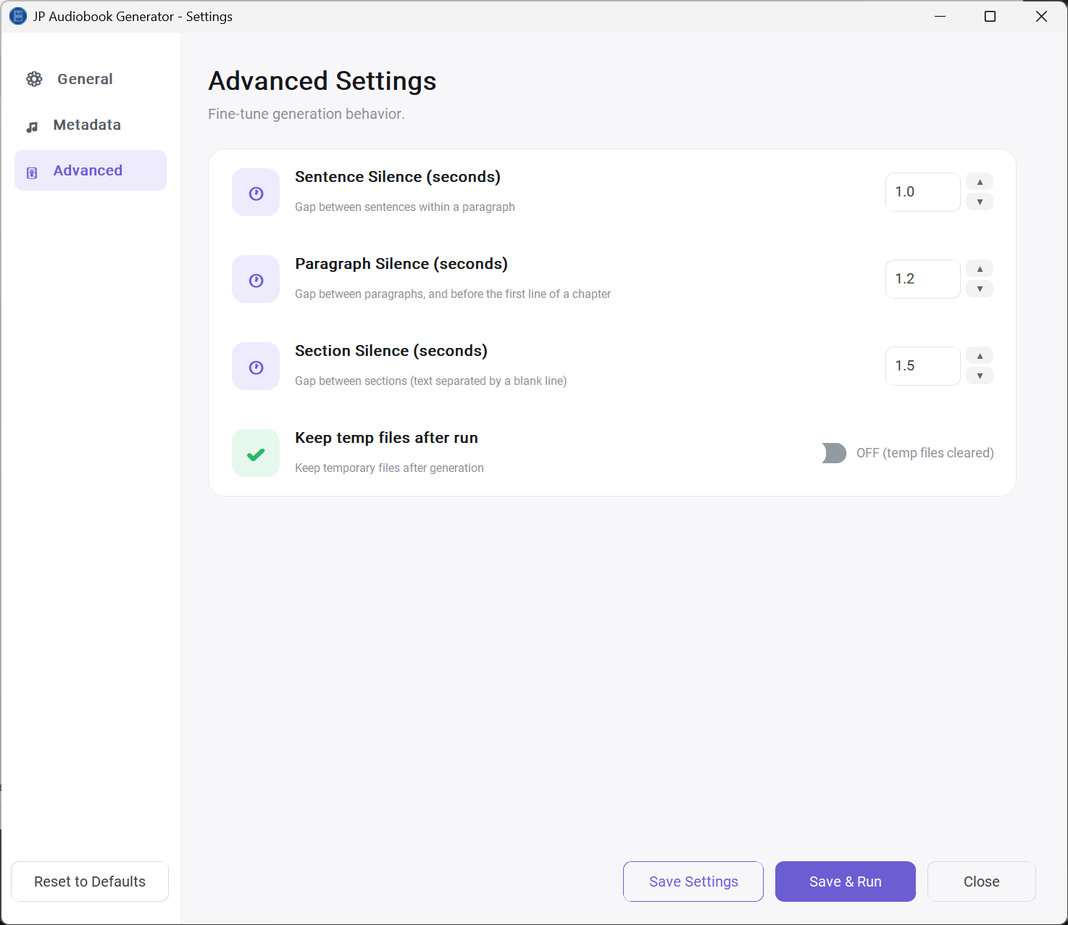
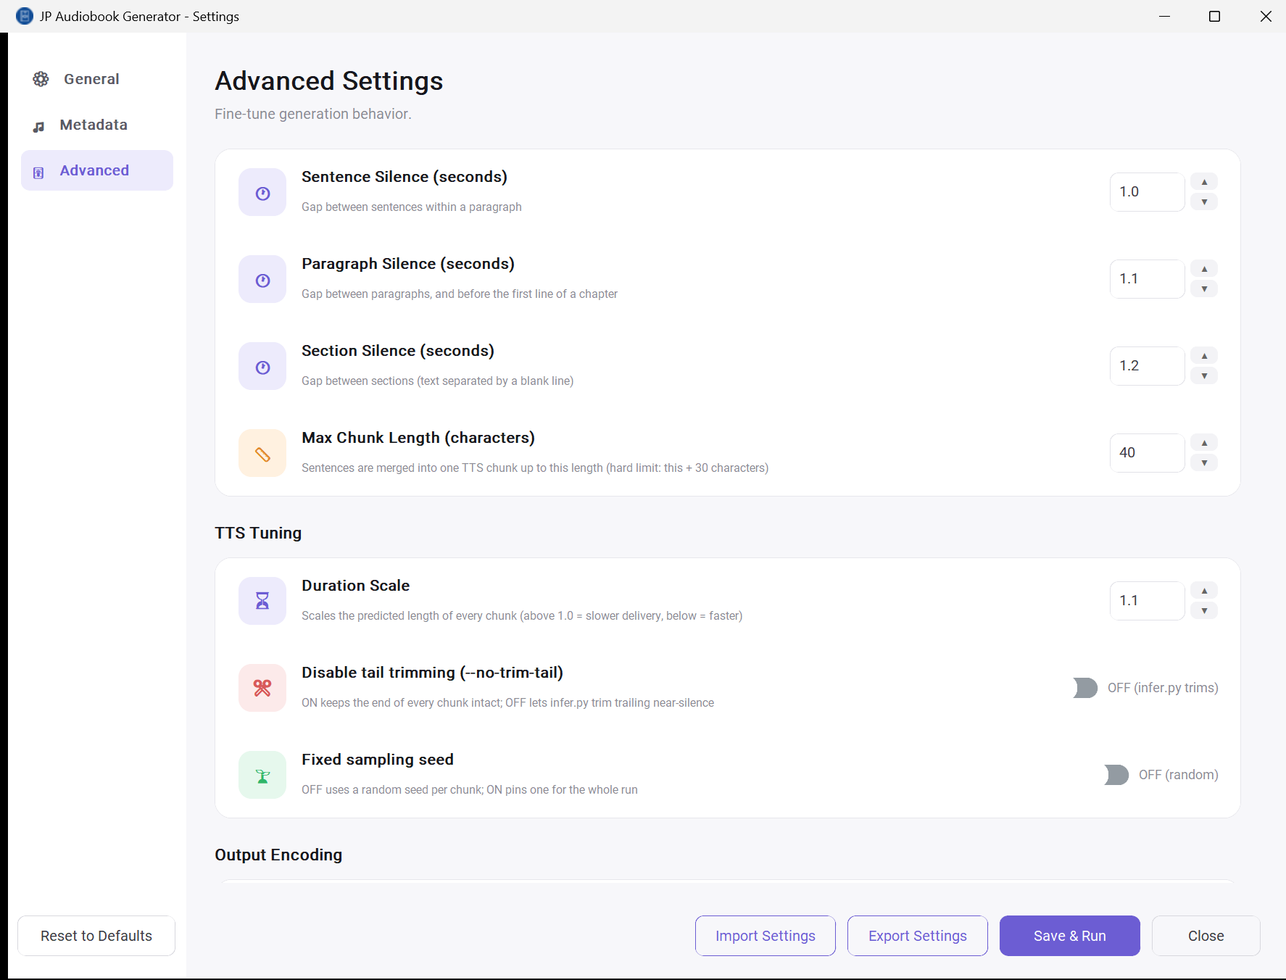
Document every feature added since the last README pass; refresh screenshots
The README described the pipeline as it stood several features ago: a local
model.safetensors, a Save Settings button, no timing data, no subtitles.

Updated: the feature list, prerequisites (weights now come from Hugging Face,
with llama.cpp and a VNTL GGUF listed as optional extras for subtitles),
General settings (Model Path gone, the two run-behaviour toggles documented
where they now live), Advanced settings (Max Chunk Length plus new tables for
TTS Tuning, Output Encoding and Translation Subtitles), and the action bar
(Export/Import presets in place of Save Settings, and Save & Run counting only
the chapters it intends to build).

Added section 8, what lands in the output folder - sync.json, the translation
artifact, the .srt, the glossary and the per-run settings snapshot - and
section 9 on translation subtitles: why it runs after the audio, the glossary
format, the Subtitle Generation Tool, how the chapter and subtitle regenerate
decisions stay coupled, and model setup.

Section 6 now notes that its 100/130 worked examples are the defaults rather
than fixed limits, since Max Chunk Length made them configurable.

Screenshots recaptured through the Win32 PrintWindow API, so they are clean
window shots rather than desktop grabs. The Advanced page needs two: Windows
does not composite the off-screen part of a window, so a window tall enough to
fit the whole page comes back black below the screen edge. New shot of the
Subtitle Generation Tool.
[…]

diff --git a/gui_settings.py b/gui_settings.py
@@ -638,10 +638,12 @@ class SettingsApp(ctk.CTk):
         self._add_auto_translate_row(tr_card)
         self._add_backend_row(tr_card)
         self._add_endpoint_row(tr_card)
+        # Kept short on purpose: _add_path_row's title block is a fixed
+        # 210x44, so a description longer than about one line is clipped
+        # rather than wrapped. The full behaviour is in the README.
         self._add_path_row(
             tr_card, *ICON_MODEL, "llama-server path",
-            "Started automatically when nothing is listening, and stopped again "
-            "when translation finishes",
+            "Started and stopped automatically",
             "llama_server_exe", "file",
             filetypes=[("Executable", "*.exe"), ("All files", "*.*")])
         self._add_path_row(

diff --git a/README.md b/README.md
@@ -23,9 +23,13 @@ The Automated Japanese Audiobook Generator is a Python automation pipeline desig
 ## 2. Core Functional Features
 
 - **Text Pre-processing:** The pipeline parses raw Japanese text into a structured hierarchy of sections, paragraphs, and sentences. Dialogue (`「」`) and parenthetical asides (`（）`) are no longer isolated as whole, unsplittable spans - instead each bracket edge is a guaranteed silence point, while the content between/around them is chunked by the same character-count rules as ordinary narration. A mid-sentence `──` is also a forced silence point. See [Section 6](#6-detailed-text-cleaning-logic) for the full logic.
-- **Sentence-Level Chunking:** To respect model token limits and prevent prosodic degradation, the script merges sentences into ~100-character chunks (130-character hard limit) using `。`, `？`, `……`, and the forced break points above (`「`, `（`, `」`, `）`, `──`) as boundaries. This keeps intonation natural across long-form content (including long dialogue) while minimizing the number of TTS calls.
+- **Sentence-Level Chunking:** To respect model token limits and prevent prosodic degradation, the script merges sentences into chunks at a configurable soft limit (100 characters by default, with a hard limit 30 above it) using `。`, `？`, `……`, and the forced break points above (`「`, `（`, `」`, `）`, `──`) as boundaries. This keeps intonation natural across long-form content (including long dialogue) while minimizing the number of TTS calls.
 - **AI Speech Synthesis:** The system integrates the Irodori-TTS engine, which utilizes a Flow Matching architecture for better voice quality. Local GPU inference is managed via the `uv` package manager to ensure environment stability.
 - **Automated Audio Stitching:** Using FFmpeg's concat demuxer, the script merges individual chunk waveforms into a final chapter file, inserting tiered silence gaps to simulate natural human pacing. Each gap is one of three separately configurable durations - sentence, paragraph/chapter start, or section - chosen by boundary type, with dialogue/aside edges and `──` pauses promoted to a longer gap where appropriate.
+- **Per-Speaker Tuning:** Duration scale, tail trimming and the sampling seed are settings rather than constants, because trained speakers respond differently enough to them that one fixed recipe produced inconsistent results across voices. Output channel count and MP3 bitrate are configurable alongside them. See [Section 7.3](#73-advanced-settings).
+- **Chunk Timing Data:** Every chapter is written with a `<chapter>.sync.json` recording each chunk's start/end offset in the finished MP3. It falls out of the same concat ordering used to stitch the audio, so no separate alignment pass is needed, and it is what makes read-along playback and subtitles possible. See [Section 8](#8-what-lands-in-the-output-folder).
+- **English Subtitle Generation:** An optional pass translates the finished `sync.json` chunk by chunk and emits a sidecar `.srt`. Because it runs *after* the audio exists, chunk boundaries are already fixed by the rendered MP3 and the subtitle cannot desync. Translation runs locally against a VNTL model with no API cost. See [Section 9](#9-translation-subtitles).
+- **Reproducible Runs:** Every run drops a timestamped copy of the settings it used into the output folder, so the recipe behind a book is still recoverable months later. Presets can be exported and imported per book or per speaker.
 
 ## 3. System Prerequisites
 
@@ -37,7 +41,22 @@ The Automated Japanese Audiobook Generator is a Python automation pipeline desig
 | GPU | NVIDIA GeForce RTX 4060 (8GB VRAM minimum) |
 | Tools | FFmpeg (full-shared build — required for `libtorchcodec` DLL support), `uv` (modern Python package manager) |
 | Engine | Irodori-TTS (cloned repository) |
-| Model Weights | `model.safetensors` (v4-Small recommended) and a trained `.speaker.safetensors` (Semantic-DACVAE codec) |
+| Model Weights | Downloaded automatically from Hugging Face — see below. You supply only a trained `.speaker.safetensors` (Semantic-DACVAE codec) |
+| Optional (subtitles) | `llama-server` from [llama.cpp](https://github.com/ggml-org/llama.cpp/releases) (CUDA build matching your driver) and a VNTL GGUF model — see [Section 9](#9-translation-subtitles) |
+
+**Model weights**
+
+The pipeline uses the published checkpoint `Aratako/Irodori-TTS-v4.1-Small`,
+passed to `infer.py` as `--hf-checkpoint`, so there is no local
+`model.safetensors` to manage and no Model Path field in the GUI. It is
+fetched into the Hugging Face cache on first use and reused from then on.
+
+To pin a different checkpoint — a local file, or a quantized variant such as
+`Aratako/Irodori-TTS-v4.1-Small-Quantized/int8-weight-only` — change
+`MODEL_REF` at the top of `run_audiobook.py`. `checkpoint_args()` decides
+between `--checkpoint` and `--hf-checkpoint` from the shape of the value, so
+either form works. The two are mutually exclusive in `infer.py`, which is why
+this is resolved in one place rather than left to the caller.
 
 **Speaker setup**
 
@@ -113,7 +132,9 @@ All spaces, CRLFs, and IDSP are stripped from the content of every working file 
 
 ### 6.3 Stage 2 — Merge sentences into TTS input chunks
 
-Goal: instead of one audio generation call per sentence, combine sentences so each TTS input lands close to **100 characters**, never exceeding a **130-character hard limit** where avoidable.
+Goal: instead of one audio generation call per sentence, combine sentences so each TTS input lands close to the soft limit, never exceeding the hard limit where avoidable.
+
+> The worked examples below use the defaults — a **100-character** soft limit and a **130-character** hard limit. Both follow **Max Chunk Length** on the [Advanced page](#73-advanced-settings): the hard limit is always the soft limit **+ 30**, and is not separately configurable. Lowering the soft limit gives finer control over where silence lands, at the cost of more TTS calls.
 
 Per paragraph, walk its sentence units in order and maintain a running buffer:
 
@@ -222,8 +243,9 @@ Paths and basic preferences for the audiobook generation process.
 | --- | --- |
 | **Input Folder** | Folder containing the input chapters — `chapter_001.txt`, `chapter_002.txt`, etc. This is the `chapter_*.txt` naming that [JP-ePub-Text-Extractor](https://github.com/hermanismail/JP-ePub-Text-Extractor) writes to its output folder, so that tool's output can be pointed at directly as this one's input. |
 | **Output Folder** | Where the generated MP3 files are saved, one per chapter. |
-| **Temp Folder** | Where intermediate working files (split sections/paragraphs/sentences, per-chunk `.wav` files, the run log) are written during a generation run, one subfolder per chapter, plus a shared `_silence` subfolder holding the three silence `.wav` files for the run. See **Keep temp files after run** (Advanced) for whether these are cleaned up afterward. |
-| **Model Path** | Path to the Irodori-TTS `model.safetensors` weights file (see [Section 3](#3-system-prerequisites)). |
+| **Regenerate existing chapters** | **OFF** by default: any chapter that already has an MP3 in the Output Folder is skipped, and the run says which ones and why. This replaces shuffling `.txt` files in and out of the Input Folder by hand to avoid clobbering finished work — easy to get wrong, and expensive when you do, since a chapter is hours of GPU time. Turn **ON** to rebuild and overwrite them, e.g. after finding a better recipe. It also governs subtitles on the automatic path — see [Section 9.4](#94-how-the-two-halves-stay-in-step). |
+| **Temp Folder** | Where intermediate working files (split sections/paragraphs/sentences, per-chunk `.wav` files, the run log) are written during a generation run, one subfolder per chapter, plus a shared `_silence` subfolder holding the three silence `.wav` files for the run. |
+| **Keep temp files after run** | **ON** by default, leaving the split text and per-chunk `.wav` working files in the Temp Folder after a run (useful for inspecting a chapter). Turn **OFF** to have them cleared once generation completes. |
 | **Speaker Path** | Path to your trained `.speaker.safetensors` file, produced by the speaker inversion step (see **Speaker setup** in [Section 3](#3-system-prerequisites)). |
 | **uv Project Folder** | The base folder of your Irodori-TTS `uv` project — i.e. the folder you'd normally run `uv run ...` from. Generation is launched as a subprocess inside this folder, so it needs to match wherever Irodori-TTS was cloned and synced. |
 
@@ -249,18 +271,52 @@ Tag chapters so Spotify (or any player that reads ID3/MP4 tags) groups them as o
 
 Fine-tune generation behavior.
 
-<img src="GUI-Advanced.png" alt="Settings GUI Advanced" width="600">
+<img src="GUI-Advanced.png" alt="Settings GUI Advanced - top" width="600">
+
+<img src="GUI-Advanced-2.png" alt="Settings GUI Advanced - scrolled" width="600">
+
+The page scrolls; the two shots above are the top and bottom of it.
 
 | Field / control | What it does |
 | --- | --- |
 | **Sentence Silence (seconds)** | Length of the gap inserted between sentences inside a paragraph — the shortest of the three. Defaults to 1.0 seconds; must be a positive number. |
 | **Paragraph Silence (seconds)** | Length of the gap inserted between paragraphs, and as the lead-in before the very first line of a chapter. Defaults to 1.2 seconds; must be a positive number. |
 | **Section Silence (seconds)** | Length of the gap inserted between sections (text separated by a blank line) — the longest of the three. Defaults to 1.5 seconds; must be a positive number. |
-| **Keep temp files after run** | **ON** by default, meaning the split section/paragraph/sentence files and per-chunk `.wav` files in the Temp Folder are left on disk after a run finishes (useful for inspecting/debugging a chapter). Turn **OFF** to have them deleted automatically once generation completes. |
+| **Max Chunk Length (characters)** | Soft cap on how much text is packed into one TTS chunk before starting a new one. The hard limit that the merger only crosses to avoid cutting a sentence off mid-way is always this **+ 30** characters, and is not separately configurable. Lower values give finer control over where silence lands, at the cost of more TTS calls. |
 
 The three durations are fully independent — there is no longer a single "base unit" that the longer gaps are multiples of. Each one is rendered to its own silence `.wav` before stitching, and [Section 6.5](#65-stage-4--concatenation--silence-insertion) explains which of the three lands at any given gap. Setting all three to the same number gives uniform pacing throughout; widening only **Section Silence** gives a clearer beat between scene breaks without slowing down ordinary narration.
 
 > **Upgrading from an earlier version:** older `settings.json` files stored one `silence_duration` value. On first load it is migrated automatically into `silence_duration_sentence` (the old value), `silence_duration_paragraph` (2× it) and `silence_duration_section` (3× it), which reproduces the previous output exactly. Nothing changes audibly until you actually edit the numbers here.
+
+**TTS Tuning**
+
+These are passed straight through to Irodori-TTS's `infer.py`. They are settings rather than constants because trained speakers respond to them differently enough that fixing them in code produced inconsistent results across voices — expect to tune them per speaker and export the result as a preset.
+
+| Field / control | What it does |
+| --- | --- |
+| **Duration Scale** | `--duration-scale`. Multiplies the length v4-Small predicts for each chunk: above 1.0 slows the delivery, below speeds it up. Defaults to 1.2. |
+| **Disable tail trimming** | `--no-trim-tail`. **ON** keeps the end of every chunk intact. Irodori's tail heuristic was written for v2's fixed 30-second outputs; on short chunks a false positive costs the final syllable. **OFF** hands trimming back to `infer.py`, at the cost of a little dead air per chunk. |
+| **Fixed sampling seed** | `--seed`. **OFF** by default, letting `infer.py` draw a fresh seed per chunk. **ON** pins one seed for the whole run and reveals a value box. Reproducible, but be careful: pinning one seed means every chunk starts from the same noise, so a draw that suits some text badly then hurts every chunk it touches — in testing this made chapters noticeably *less* stable, not more. |
+
+**Output Encoding**
+
+| Field / control | What it does |
+| --- | --- |
+| **Output channels** | Mono by default, because mono is what Irodori-TTS actually renders. Stereo duplicates the same signal into both channels, which buys no stereo image and halves the bits available to the content — measured at an identical 320k, mono scored ~2.8 dB better. |
+| **MP3 Bitrate** | Constant bitrate for the stitched chapter, `96k` by default (accepts `96` or `96k`, 32–320). At 96k mono a full-length novel is roughly 30% of the size the old 320k stereo setting produced, with no audible loss on speech. CBR is deliberate: `sync.json` offsets are seeked to by the player, and VBR seeking leans on a 100-entry table far coarser than one chunk. |
+
+**Translation Subtitles**
+
+Covered in full in [Section 9](#9-translation-subtitles).
+
+| Field / control | What it does |
+| --- | --- |
+| **Auto-generate after run** | **OFF** by default. **ON** runs subtitle generation once at the very end of a whole book — not per chapter, since a translation model and Irodori-TTS would contend for the same 8GB card. Turning this on greys out the manual **Generate Subtitle** button, since translation then happens by itself. |
+| **Translation backend** | `vntl` (local VNTL-Llama3 via llama-server) or `identity`, which passes the Japanese through untranslated. `identity` is the control case for checking the artifact format and player round-trip with no model in the loop. |
+| **llama-server URL** | Where the local model listens. Only used by the `vntl` backend. |
+| **llama-server path** | The `llama-server.exe` to start when nothing is already listening. It is stopped again when translation finishes, so the GPU is only occupied while the job runs. |
+| **Translation model (GGUF)** | The VNTL model `llama-server` loads. |
+| **Generate Subtitle** | Opens the Subtitle Generation Tool ([Section 9.3](#93-the-subtitle-generation-tool)). Greyed out while **Auto-generate after run** is ON. |
 
 ### 7.4 Bottom action bar
 
@@ -268,9 +324,10 @@ Present on every tab.
 
 | Button | What it does |
 | --- | --- |
-| **Reset to Defaults** | After a confirmation prompt, resets every field on all three tabs back to its built-in default value. Nothing is written to `settings.json` until you also click **Save Settings** or **Save & Run**. |
-| **Save Settings** | Validates the current values and writes them to `settings.json`, without starting a run. |
-| **Save & Run** | Validates and saves the same as above, then launches `run_audiobook.py` as a background process and opens the progress window (see below). Counts the `chapter_*.txt` files in the Input Folder up front so the progress window can show "Chapter 1 of N" immediately; refuses to start if none are found. |
+| **Reset to Defaults** | After a confirmation prompt, resets every field on all three tabs back to its built-in default value. Nothing is written to `settings.json` until you also click **Export Settings** or **Save & Run**. |
+| **Import Settings** | Loads a preset `.json` chosen through a file picker into the form. Keys the file doesn't contain are left at their defaults, so an older or hand-trimmed preset still loads, and a legacy single `silence_duration` is migrated the same way `settings.json` is. Nothing is written anywhere until you then Export or Save & Run. |
+| **Export Settings** | Writes the current values to a preset file of your choosing, named after the Book Title by default. This **does not** touch `settings.json` — presets are per book or per speaker, while `settings.json` is the working config the pipeline reads. A [run snapshot](#8-what-lands-in-the-output-folder) is itself a valid preset, so "reproduce that book's settings" is Import → pick the snapshot → Save & Run. |
+| **Save & Run** | Validates, writes `settings.json`, then launches `run_audiobook.py` as a background process and opens the progress window (see below). Counts the chapters it actually intends to build — applying the **Regenerate existing chapters** rule — so the progress window doesn't promise "Chapter 1 of 18" for a run that means to build three. Says so plainly if every chapter is already generated. |
 | **Close** | Closes the settings window. (A run already in progress keeps going in its own progress window.) |
 
 ### 7.5 Progress window
@@ -305,3 +362,135 @@ You have the option to run via a PowerShell terminal, and can change settings ma
 ```powershell
 uv run --no-sync python run_audiobook.py
 ```
+
+## 8. What lands in the output folder
+
+Per chapter:
+
+| File | Written by | What it is |
+| --- | --- | --- |
+| `chapter_001.mp3` | `run_audiobook.py` | The stitched chapter, tagged if auto-tagging is on. |
+| `chapter_001.sync.json` | `run_audiobook.py` | `{version, chunks:[{index, start, end, text}]}` — each chunk's start/end offset in seconds within the finished MP3, plus its **original** wording (not the TTS-normalized text). Produced by walking the same concat ordering used to stitch the audio and summing `ffprobe`'d durations, so the timings are correct by construction with no alignment pass. |
+| `chapter_001.translation.json` | `translate_pipeline.py` | The translation artifact and source of truth: every chunk's index, timing, Japanese and English. Hand-editable. |
+| `chapter_001.srt` | `translate_pipeline.py` | One cue per chunk, UTF-8 with no BOM, `HH:MM:SS,mmm`. Cheaply re-emitted from the `.translation.json` above. |
+
+Per book:
+
+| File | What it is |
+| --- | --- |
+| `glossary.json` | Character names, genders and aliases for translation. Hand-edited; see [Section 9.2](#92-the-glossary). |
+| `<foldername>_YYYYMMDD_HHMM.json` | A snapshot of the settings that run used, written **before** the first chapter so a run that dies halfway still leaves a record of what it was attempting. Named after the output folder to stay ASCII and sortable. Everything outside the `_run` block is a faithful copy of `settings.json`, which means the snapshot can be fed straight back through **Import Settings**. |
+
+The snapshot exists because the number of tunables has grown past what anyone
+reliably remembers. Listening to a book six months later and wanting to know
+which preset produced it is the whole point.
+
+## 9. Translation subtitles
+
+Optional. Generates an English `.srt` per chapter so a player can show a
+translation alongside the Japanese reading text.
+
+### 9.1 Why it runs after the audio
+
+Translation reads the finished `sync.json`, never the raw text. By the time
+that file exists the chunk boundaries are already fixed by the rendered MP3,
+so the subtitle's timing is correct by construction and cannot drift. The
+alternative — translating first and chunking both languages together —
+assumes a 1:1 Japanese↔English segment mapping that Japanese word order makes
+fictional.
+
+The rule that keeps it honest: **a chunk's index is sacred.** Text is only
+ever filled in per existing index; chunks are never merged, split or re-timed.
+That is enforced structurally rather than by checking a model's response — the
+driver zips backend output positionally onto `sync.json`'s own chunk list, and
+a backend returning the wrong count is rejected before anything is written.
+
+### 9.2 The glossary
+
+`glossary.json`, beside the chapters, reloaded at the start of every chapter:
+
+```json
+{
+  "characters": [
+    {"name": "ターニャ・デグレチャフ", "en": "Tanya Degurechaff",
+     "gender": "Female", "aliases": "デグレチャフ少尉"}
+  ],
+  "notes": ["[note] Keep the register literary rather than colloquial."]
+}
+```
+
+`name` must match the text exactly, `en` is the spelling you want used
+consistently, and `gender` fixes pronouns that Japanese leaves implicit —
+without it the model guesses from context and gets it wrong. It travels in
+every prompt regardless of how far into a chapter the model has read, which is
+why names stay consistent where a rolling context window alone would not.
+
+Editing the glossary is the main reason to re-run, so turn on **Regenerate
+existing subtitles** in the tool when you do — otherwise chapters that already
+have an `.srt` are skipped and nothing changes.
+
+### 9.3 The Subtitle Generation Tool
+
+Opened from **Generate Subtitle** on the Advanced page. Two columns: what you
+set before a run on the left, what you watch during one on the right.
+
+<img src="GUI-Subtitle-Tool.png" alt="Subtitle Generation Tool" width="700">
+
+- **Parameters** — output folder, server URL, server path, model — are editable before a run and read-only once it starts. Output Folder being overridable is the point: a different, already-generated book can be subtitled without disturbing the main settings.
+- **Start / Pause / Resume / Exit** is one button whose label follows the state, next to a Ready / In Progress / Completed / Error pill.
+- **Pause** is the reason the window exists. Translation saturates the GPU; pausing hands the desktop back without losing progress, and deliberately leaves `llama-server` loaded so resuming is instant.
+- **Stop Process and Exit** is the emergency stop: it confirms first, cancels the run, waits for `llama-server` to shut down so the VRAM is genuinely released, and only then closes. The window's X button behaves the same way while a run is in flight.
+- Chapters that already have an `.srt` are skipped and logged, since that subtitle may have been corrected by hand. Chapters with no `.sync.json` are warned about and skipped.
+
+`llama-server` is started on demand when nothing is already listening, and
+stopped again afterwards — the 8GB card holds the TTS model or the translation
+model, not both. A server you started yourself is detected, used as-is and
+left running.
+
+### 9.4 How the two halves stay in step
+
+On the automatic path (**Auto-generate after run**), the chapter decision
+drives the subtitle decision: **Regenerate existing chapters** OFF means
+existing `.srt` files are skipped too, ON means both are rebuilt.
+
+This is a correctness matter, not just tidiness. Regenerating a chapter
+rewrites its `sync.json`, and an `.srt` is timed against that file — keeping
+the old subtitle would leave cues pointing at audio that has moved. In the
+other direction, a skipped chapter's audio and subtitle are both still valid,
+so re-translating would spend GPU hours arriving back where it started and
+would silently discard any hand correction on the way.
+
+### 9.5 Model setup
+
+The pipeline is built for [VNTL-Llama3-8B-v2](https://huggingface.co/lmg-anon/vntl-llama3-8b-v2-gguf),
+a fine-tune trained specifically on Japanese→English translation. It runs
+locally with no API cost.
+
+1. Download a Windows CUDA build of `llama-server` from [llama.cpp releases](https://github.com/ggml-org/llama.cpp/releases), matching your driver's CUDA version. The CUDA runtime DLLs are a **separate** `cudart-*` zip in the same release — without them the binary reports no devices.
+2. Download a VNTL GGUF. `q5_k_m` (~5.7 GB) fits an 8GB card alongside an 8k context.
+3. Point **llama-server path** and **Translation model (GGUF)** at them on the Advanced page.
+
+VNTL is a completion model, not an instruction-following one, so it is driven
+one chunk at a time rather than in indexed batches — which is what makes
+misalignment impossible, since the model never sees an index. Its prompt uses
+custom `Metadata` / `Japanese` / `English` header roles that no
+chat-completions API can express, so the adapter talks to `/completion` with a
+raw string. Temperature 0, no repetition penalty, per the model author: a
+repetition penalty punishes the legitimately recurring tokens translation
+depends on and pushes the model into renaming or omitting them.
+
+> **Fit matters.** VNTL is trained on visual novels. Sampling 20 chunks with
+> `--limit 20` before committing to a book is worth the minute it costs,
+> particularly for literary prose, which is further from its training
+> distribution.
+
+**Running translation from the CLI**
+
+```powershell
+uv run --project . --no-sync python translate_pipeline.py --all --backend vntl
+```
+
+`--chapter <base>` for one chapter, `--limit N` to sample the first N chunks,
+`--regenerate` to overwrite existing `.srt` files, and `--srt-only` to
+re-emit subtitles from existing `.translation.json` files after correcting one
+by hand.
